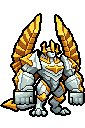
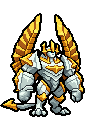
league_galio fists redrawn oppi's way (the user: 「等等拳头有点诡异啊」「你看看oppi怎么画的」): narrower than the forearm, rounded, joined to the arm without a wrist outline, one highlight, the thumb's fold and knuckles in a few dark squares (front and side A); only the fists changed

diff --git a/tools/art/design_galio_hd.py b/tools/art/design_galio_hd.py
@@ -9,9 +9,10 @@ user chose 「我按英雄联盟的拳头逐格手画」. So:
   1. front = Codex's galio-front.png read on its 12-px grid (85 x 128 squares), its fist balls cleared;
   2. one palette: the front's own 40 Lab k-means colours (design_varus.kmeans; the read-back had ~2500 near colours),
      side A snapped to it;
-  3. the fists drawn here square for square (NEAR / FAR: as wide as the forearm above, three finger columns with dark
-     creases, the knuckles rounded at the bottom, the thumb over the inner side toward the body, lit from the upper
-     left), each on a box cleared first (Codex's ball and the spiral's leftovers);
+  3. the fists drawn here square for square, oppi's way (NEAR / FAR / SIDE: narrower than the forearm, rounded, joined
+     to the arm without a wrist outline, one highlight, the thumb's fold and the knuckles in a few dark squares), each on
+     a box cleared first (Codex's ball and the spiral's leftovers); the first try (blocks as wide as the forearm, three
+     finger columns, an outline across the wrist) was 「有点诡异」;
   4. side A (the user's pick) = Codex's galio-side-A.png on the same grid, its ball fist replaced the same way.
   5. the outer outline grown by one square (edge), the one look's ~1 game pixel.
 Writes assets/source/galio/hd/front.png and side.png (one square = one dense pixel, 85 x 128, soles row 115, standing
@@ -38,60 +39,43 @@ K = 40
 # the fist, lit from the upper left; the inner side (toward the body) on the right, the knuckles at the bottom
 SHADES = {"O": (3, 2, 1), "Y": (244, 250, 246), "X": (236, 251, 241), "F": (189, 208, 202), "Z": (149, 169, 168),
           "P": (125, 145, 147), "I": (110, 129, 132), "D": (86, 102, 106), "V": (59, 71, 76), "Q": (46, 56, 61)}
-# the near fist (image left): the width of the forearm above it (20 squares), three finger columns with dark creases,
-# the knuckles rounded at the bottom, the thumb over the inner side (toward the body, image right)
+# The fists the way oppi drew his Galio (LoL Reborn, Workshop 3774304166; the user: 「等等拳头有点诡异啊」「你看看oppi怎么画的」
+# about the first, brick-like ones): narrower than the forearm and rounded, the same stone as the arm and joined to it (no
+# outline across the wrist - the forearm's bottom row goes on as a dark band), shaded by one highlight at the upper left,
+# the thumb's fold and the knuckles only a few dark squares, the knuckles rounded at the bottom.
 NEAR = [
-    "OOOOOOOOOOOOOOOOOOOO",
-    "OXXXXXXXXXFFFFFFFZPO",
-    "OXYYYXXXXFFFFFFFZZPO",
-    "OXXXXXFFFFFFFFFZZPIO",
-    "OXFFFFFFFFFFFZZZPPIO",
-    "OFFFFFFFFZZZZPPPOOIO",
-    "OFFFZZZZZZPPPPPOXFIO",
-    "OZFFFZPFFFZPFFZOXFPO",
-    "OZFFFZPFFFZPFFZOFZPO",
-    "OZFFFZPFFFZPFFZOZPIO",
-    "OPZZZPIZZZPIZZPOPIDO",
-    "OPPPPIDPPPIDPPIOOODO",
-    ".OPPPOOPPPOOPPIOOOO.",
-    "..OOO..OOO..OOO.....",
+    "OIZZFFFFZZPIO",
+    "OZFXXXXFFZPIO",
+    "OFXYYXFFFZPIO",
+    "OFXXXFFFZZPDO",
+    "OZFFFFZZZPPDO",
+    "OZFZPZZZPDDDO",
+    "OPZFFZPZFFDO.",
+    "OPZZPPPZZFDO.",
+    ".OPIPPIPPDO..",
+    "..OIODIODO...",
+    "...O..O.O....",
 ]
-# the far fist (image right, 15 squares like its forearm): the thumb on its inner side (image left), lit the same way
+# the far fist (image right): the thumb's fold on its inner side (image left)
 FAR = [
-    "OOOOOOOOOOOOOO.",
-    "OFXXXXXXXFFFFZO",
-    "OXXXXXXFFFFFZPO",
-    "OXXFFFFFFFZZPIO",
-    "OFFFFFFFZZZPPIO",
-    "OIOOFFZZZPPPPIO",
-    "OXFOZZFFZPFFZIO",
-    "OXFOZPFFZPFFZIO",
-    "OFZOZPFFZPFFZIO",
-    "OZPOPIZZPIZZPDO",
-    "OPIOOIPPIDPPIDO",
-    ".OOOPOOPPOOPPO.",
-    "....O..OO..OO..",
+    "OPZZFFFFZIO",
+    "OZFXXFFZZIO",
+    "OFXYXFFZPDO",
+    "ODOFFFZZPDO",
+    "OXDOZZZPPDO",
+    "OXFDOZPPIDO",
+    "OFZDOZFZPDO",
+    ".OZPOPZPIO.",
+    "..OIODIDO..",
+    "...O..O....",
 ]
-# side A's near fist (17 squares, its forearm 15): the back of the hand to the viewer, the thumb in front (image right)
-SIDE = [
-    "OOOOOOOOOOOOOOOOO",
-    "OXXXXXXXXFFFFFZPO",
-    "OXYYYXXXFFFFFZZPO",
-    "OXXXXFFFFFFFZZPIO",
-    "OXFFFFFFFFFZZPPIO",
-    "OFFFFFFZZZZPPOOIO",
-    "OFFZZZZZPPPPOXFIO",
-    "OZFFZPFFFZPPOXFPO",
-    "OZFFZPFFFZPPOFZPO",
-    "OZFFZPFFFZPPOZPIO",
-    "OPZZPIZZZPIIOPIDO",
-    ".OPPOOPPPOOIOOOO.",
-    "..OO..OOO..OO....",
-]
-SIDE_FISTS = [dict(rows=SIDE, at=(89, 32), clear=(89, 101, 31, 50))]
-# where each fist goes (top-left square) and the box cleared first (Codex's ball, the old spiral's leftovers)
-FRONT_FISTS = [dict(rows=NEAR, at=(91, 14), clear=(91, 104, 14, 37)),
-               dict(rows=FAR, at=(92, 69), clear=(92, 107, 66, 85))]
+# side A's near fist: the near one, at the end of the arm hanging in front of the hip
+SIDE = NEAR
+# where each fist goes (top-left square), the box cleared first (Codex's ball / the spiral's leftovers) and the forearm's
+# bottom row (row, first and last column + 1) that takes the outline outside the fist's width
+FRONT_FISTS = [dict(rows=NEAR, at=(91, 18), clear=(91, 104, 14, 37), fore=(91, 14, 35)),
+               dict(rows=FAR, at=(92, 71), clear=(92, 107, 66, 85), fore=(92, 69, 84))]
+SIDE_FISTS = [dict(rows=SIDE, at=(89, 34), clear=(89, 101, 31, 50), fore=(89, 32, 47))]
 
 
 def grid(path):
@@ -130,31 +114,26 @@ def paint(g, spec):
     r0, r1, c0, c1 = spec["clear"]
     rows = spec["rows"]
     ar, ac = spec["at"]
-    before = g.copy()
     g[r0:r1, c0:c1] = 0
     for i, line in enumerate(rows):
         for j, ch in enumerate(line):
             if ch != ".":
-                g[ar + i, ac + j, :3] = SHADES[ch]
-                g[ar + i, ac + j, 3] = 255
+                g[ar + i, ac + j] = (*SHADES[ch], 255)
+    fr, fc0, fc1 = spec["fore"]
+    for c in range(fc0, fc1):
+        if not (ac <= c < ac + len(rows[0])):
+            g[fr, c] = (*SHADES["O"], 255)
     # what the box cut off a neighbour (the leg beside the near fist) gets its outline back on that side
-    near = np.zeros(g.shape[:2], bool)
-    near[ar:ar + len(rows), ac:ac + len(rows[0])] = True
+    fist = np.zeros(g.shape[:2], bool)
+    fist[ar:ar + len(rows), ac:ac + len(rows[0])] = True
     for r in range(r0, r1):
         for c in range(c0, c1):
             if g[r, c, 3]:
                 continue
             for dc in (-1, 1):
                 cc = c + dc
-                if 0 <= cc < g.shape[1] and g[r, cc, 3] and not near[r, cc] and not (c0 <= cc < c1)                         and g[r, cc, :3].sum() > 60:
+                if 0 <= cc < g.shape[1] and g[r, cc, 3] and not fist[r, cc] and not (c0 <= cc < c1)                         and g[r, cc, :3].sum() > 60:
                     g[r, c] = (*SHADES["O"], 255)
-    # a cleared square left as a one-square crack between the fist and the body takes the outline (gap-check)
-    for r in range(r0, r1):
-        for c in range(c0, c1):
-            if g[r, c, 3] or not before[r, c, 3]:
-                continue
-            if (g[r, c - 1, 3] and g[r, c + 1, 3]) or (g[r - 1, c, 3] and g[r + 1, c, 3]):
-                g[r, c] = (*SHADES["O"], 255)
     return g
 
 
@@ -196,11 +175,13 @@ def main():
         paint(front, spec)
     pinholes(front)
     edge(front)
+    pinholes(front)
     side = snap(grid(os.path.join(CODEX, "galio-side-A.png")), pal)
     for spec in SIDE_FISTS:
         paint(side, spec)
     pinholes(side)
     edge(side)
+    pinholes(side)
     os.makedirs(OUT, exist_ok=True)
     Image.fromarray(front).save(os.path.join(OUT, "front.png"))
     Image.fromarray(side).save(os.path.join(OUT, "side.png"))
